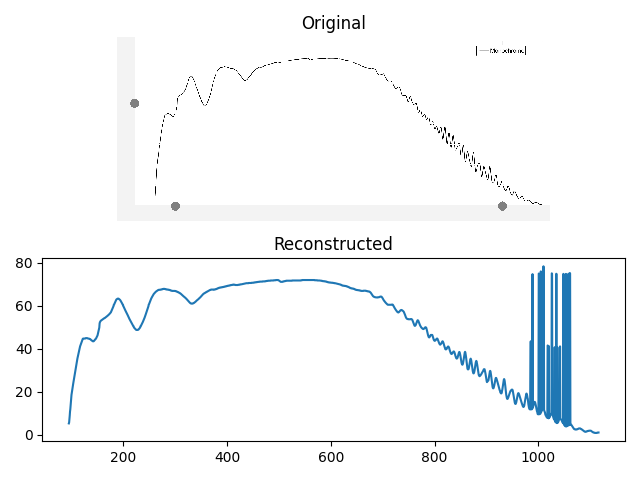
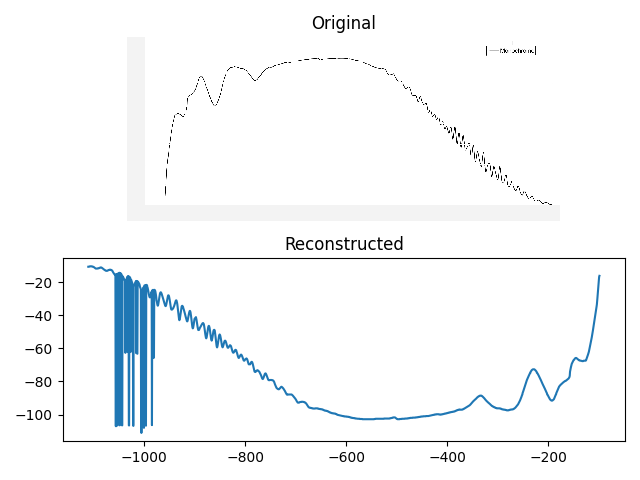
fix tests.
Pass indices rather than coordinates to compute axes

diff --git a/plotdigitizer/image.py b/plotdigitizer/image.py
@@ -57,9 +57,10 @@ class Figure:
     def trajectories(self, cache_key: T.Optional[str] = None):
         img = self._last()
         common.params_ = compute_foregrond_background_stats(img)
+
         T = transform_axis(img, self.coordinates, self.indices, erase_near_axis=3)
         assert img.std() > 0.0, "No data in the image!"
-        logger.info(f" {img.mean()}  {img.std()}")
+        logger.debug(f" {img.mean()}  {img.std()}")
         if cache_key is not None:
             save_img_in_cache(img, f"{cache_key}.transformed_axis.png")
 
@@ -189,7 +190,7 @@ def transform_axis(img, coordinates, indices, erase_near_axis: int = 0):
     # extra: extra rows and cols to erase. Help in containing error near axis.
     # compute the transformation between old and new axis.
     T = axis_transformation(indices, coordinates)
-    p = geometry.find_origin(coordinates)
+    p = geometry.find_origin(indices)
     offCols, offRows = p.x, p.y
     logger.info(f"{coordinates} → origin {offCols}, {offRows}")
     img[:, : offCols + erase_near_axis] = common.params_["background"]
@@ -205,7 +206,7 @@ def save_img_in_cache(
         filename = Path(f"{common.data_to_hash(img)}.png")
     outpath = common.cache() / filename
     cv.imwrite(str(outpath), np.array(img))
-    logger.debug(f" Saved to {outpath}")
+    logger.debug(f"Saved in cache: {outpath}")
 
 
 # Thanks https://codereview.stackexchange.com/a/185794

diff --git a/plotdigitizer/geometry.py b/plotdigitizer/geometry.py
@@ -4,6 +4,7 @@ __email__ = "dilawar.s.rajput@gmail.com"
 import typing as T
 import statistics
 import math
+from loguru import logger
 
 
 class Point:
@@ -30,19 +31,23 @@ class Point:
 
 
 def find_origin(pts: T.List[Point]) -> Point:
-    """Compute origin of given points."""
+    """Compute origin out of given given points. Two of them must be
+    horizontally co-linear.
+    """
+    logger.debug(f"Finding origin in {pts}")
     horizontal = set()
     for i, p1 in enumerate(pts):
         for _, p2 in enumerate(pts[i + 1 :]):
-            if abs(p1.x - p2.x) <= 2:
-                continue
             m = (p2.y - p1.y) / (p2.x - p1.x)
+            logger.debug(f"Checking if {p1=} and {p2=} are on x-axis: {m=}...")
             if abs(m) < math.tan(math.pi / 180 * 5):  # <5 deg is horizontal.
                 horizontal.add(p1)
                 horizontal.add(p2)
 
     points = set(pts)
     assert len(horizontal) > 1, f"Must have at least two colinear points {horizontal}"
+    logger.debug(f" horizontal points {horizontal}")
+
     verticals = points - horizontal
     assert len(verticals) > 0, "Must be at least one vertical point"
     originY = statistics.mean([p.y for p in horizontal])

diff --git a/plotdigitizer/plotdigitizer.py b/plotdigitizer/plotdigitizer.py
@@ -40,7 +40,7 @@ def digitize_plot(
             " If not given, you will be asked to click on the figure.",
         ),
     ] = [],
-    plot: Annotated[
+    plot_file: Annotated[
         T.Optional[Path],
         typer.Option("--plot", help="Plot the final result. Requires matplotlib"),
     ] = None,
@@ -89,8 +89,9 @@ def digitize_plot(
     # compute trajectories
     traj = figure.trajectories()
 
-    if plot is not None:
-        plot_traj(traj, figure._last(), plot)
+    if plot_file is not None:
+        logger.info(f"Plogging data to {plot_file}")
+        plot_traj(traj, figure._last(), plot_file)
 
     outfile = output or f"{infile}.traj.csv"
     with open(outfile, "w") as f:
